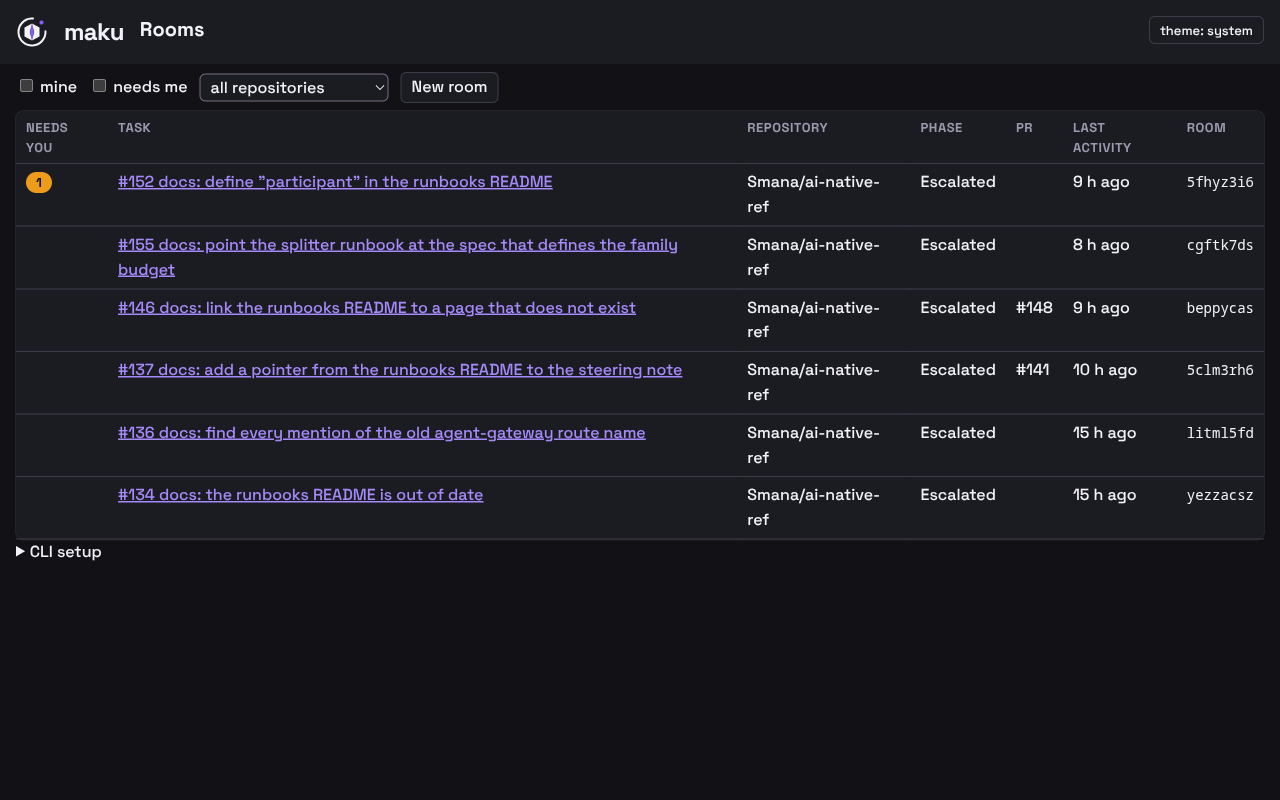
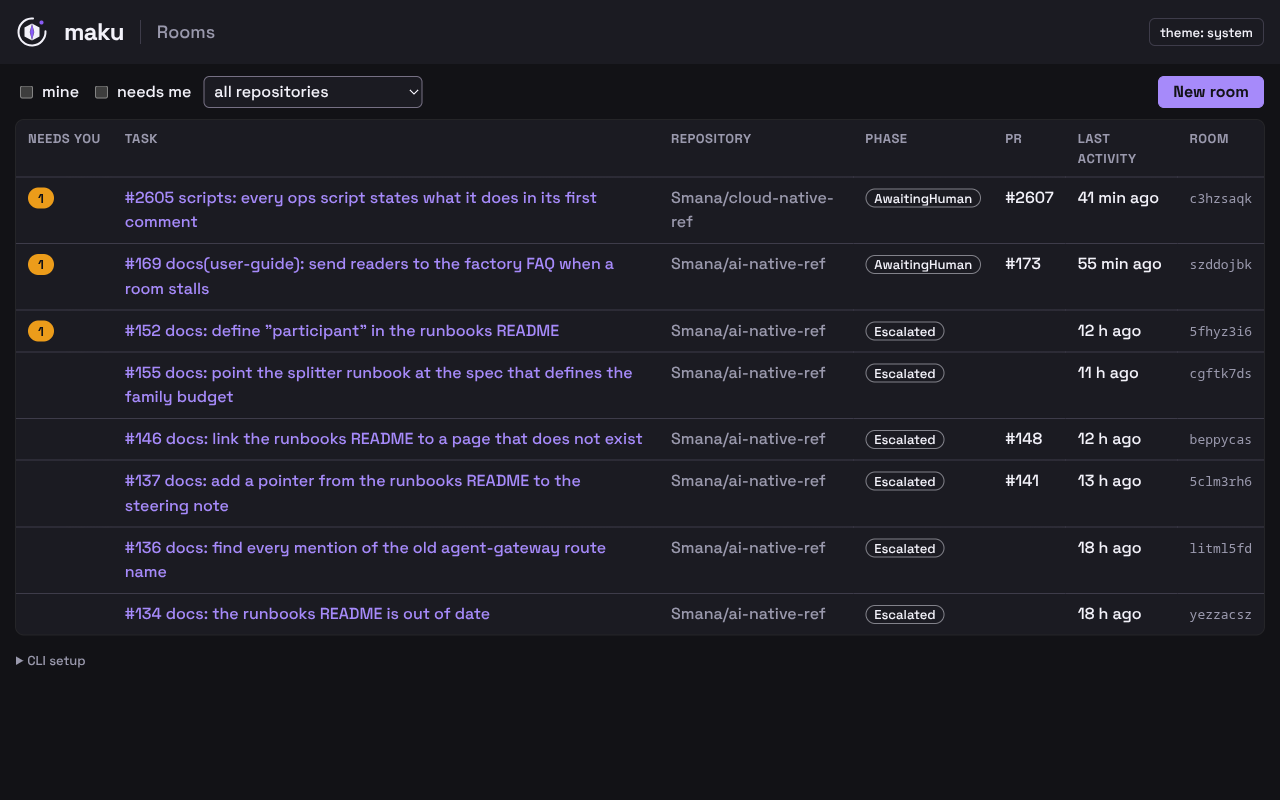
docs(web-ui): live v0.29.3 frames: the room list, a folded brief with its dashboards, a phone
Re-captured from the deployed v0.29.3 UI on public ai-native-ref and
cloud-native-ref rooms: the room list in its new header, the room page, a
factory brief folded under Show more with the Dashboards chip, the compact
phone strip, and the scroll.

diff --git a/docs/web-ui.md b/docs/web-ui.md
@@ -84,7 +84,14 @@ Scrolling a finished factory room, from the strip down through its turns and too
 
 <img alt="Scrolling down a factory room's conversation: the triager's scope, folded tool calls with their status, state changes folded into turns" src="assets/web-ui/room-scroll.gif" width="800">
 
-On a phone the strip stacks above the conversation:
+A factory brief folded under `Show more`, with the `Dashboards` chip at the end of the strip:
+
+<picture>
+  <source media="(prefers-color-scheme: dark)" srcset="assets/web-ui/room-fold-dark.png">
+  <img alt="A factory room whose task brief shows its first lines under a fade and a Show more link; the strip ends with a Dashboards chip linking Room metrics and Run" src="assets/web-ui/room-fold-light.png" width="800">
+</picture>
+
+On a phone the strip stays compact above the conversation:
 
 <img alt="The same room on a phone, light theme" src="assets/web-ui/room-phone-light.png" width="260"> <img alt="The same room on a phone, dark theme" src="assets/web-ui/room-phone-dark.png" width="260">
 
